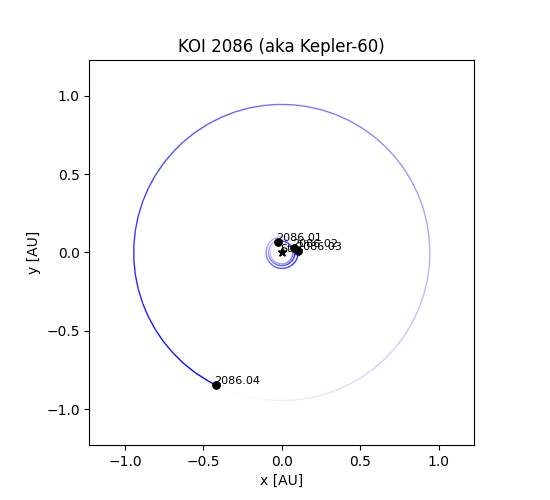
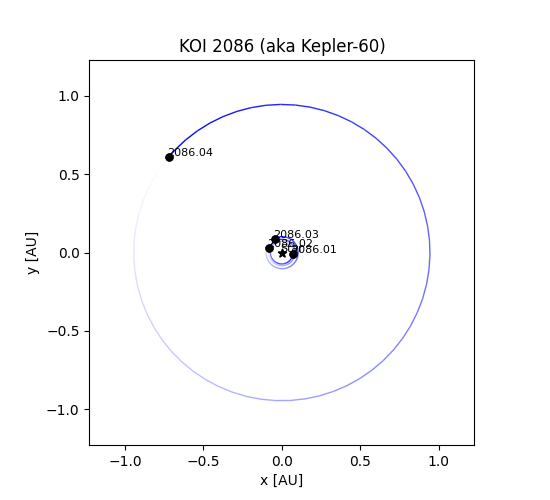
I still don't know what's going on but we'll be alright

diff --git a/Rebound2086.py b/Rebound2086.py
@@ -4,30 +4,36 @@ import matplotlib.pyplot as plt
 
 sim = rebound.Simulation()
 
-sim.units = ('yr','AU','Msun')
+Mearth = 1.0/332940.0
+GMsun = 1.3271244e20 # [m3 s-2]
+au = 149597870700.0 # [m]
+G = GMsun*(86400**2)/au**3 # au, days, Msun
+
+sim.units = ('days','AU','Msun')
+print(sim.G)
 
 #star/COM
 sim.add(m=1)
 #2086.01 // Start with innermost planet, go outwards
-sim.add(m=(1.734**3)/332946,P=7.13295045/365.2425,theta=10.300453650942318)
+sim.add(m=(1.734**3)/332946,P=7.13295045,theta=4.268962021689864)
 #2086.02 // Period is in days, convert to years (Divide by 365.2425)
-sim.add(m=(1.943**3)/332946,P=8.91897737/365.2425,theta=7.303898735779818)
+sim.add(m=(1.943**3)/332946,P=8.91897737,theta=1.6340637234308417)
 #2086.03 // mass ≈ R_p ^ 3 in Earth masses if radius of planet > 1.7 earth radii, then divide by 332946 to convert to solar masses
-sim.add(m=(1.756**3)/332946, P=11.89824703/365.2425,theta=12.686669555423437)
+sim.add(m=(1.756**3)/332946, P=11.89824703,theta=6.145702704123614)
 #2086.04
-sim.add(m=(1.836**3)/332946,P=335.5198537/365.2425,theta=-170.78681528312197)
+sim.add(m=(1.836**3)/332946,P=335.5198537,theta=3.1986270262231145)
 
 os = sim.orbits()
 print("n_i (in rad/days) = %6.3f, %6.3f, %6.3f" % (os[0].n,os[1].n,os[2].n))
 print("P_i (in days)     = %6.3f, %6.3f, %6.3f" % (os[0].P,os[1].P,os[2].P))
 
-Tfinal= 100
-Nout = 365*Tfinal # number of printed out timesteps.
+Tfinal= 10*365
+Nout = 10000 # number of printed out timesteps.
 
 phi = zeros(Nout)
 l1,l2,l3 = zeros(Nout), zeros(Nout), zeros(Nout)
 
-p,q = 1, 1
+p,q = 4, 4
 
 times = linspace(0.,Tfinal,Nout)
 for i,time in enumerate(times):
@@ -36,8 +42,8 @@ for i,time in enumerate(times):
     phi[i] = p*l1[i]-(p+q)*l2[i]+q*l3[i]
 sim.move_to_com()
 
+#radian to degree conversion
 phi_degrees = (phi*180/pi) % 360
-
 print(phi_degrees)
 
 op = rebound.OrbitPlot(sim,unitlabel="[AU]", color="blue", figsize=[5.5,5])
@@ -52,11 +58,36 @@ op.fig.savefig("orbit2086.png")
 
 fig = plt.figure(figsize=(9,7))
 ax = plt.subplot(111)
-ax.plot(times,phi_degrees, 'b', marker=".", markersize=.5)
-ax.set_xlabel("t (years) ", fontsize=24)
-ax.set_ylabel("\u03C6 (deg)", fontsize=24)
-ax.legend(fontsize=24)
+ax.plot(times/365.2425,phi_degrees, 'b', marker=".", markersize=.5)
+ax.set_xlabel("t (years)", fontsize=20)
+ax.set_ylabel("$\Phi$ (degrees)", fontsize=20)
+ax.set_title("Resonant Argument of KOI 2086 (aka Kepler-60)",fontsize=20)
+ax.annotate("p = 4, q = 4",xy=(9,360))
+#ax.legend(fontsize=24)
 plt.savefig("phichart2086.png")
+
+fig = plt.figure(figsize=(9,7))
+ax = plt.subplot(111)
+ax.plot(times,l1*180/pi, 'b', marker=".", markersize=.5)
+ax.set_xlabel("t (days) ", fontsize=20)
+ax.set_ylabel("$\lambda_1$ (degrees)", fontsize=20)
+ax.set_title("Mean longitude of KOI 2086.01",fontsize=20)
+plt.axhline(y=(4.268962021689864*180/pi), color='b', linestyle='--')
+ax.plot([0,7.13295045],[4.268962021689864*180/pi,4.268962021689864*180/pi],'bo')
+ax.annotate("(0,244.6$\degree$)",xy=(-0.4,230),color='b')
+ax.annotate("(7.13295045,244.6$\degree$)",xy=(7.1,230),color='b')
+#ax.legend(fontsize=24)
+plt.savefig("lamdbachart2086.png")
+
+fig = plt.figure(figsize=(9,7))
+ax = plt.subplot(111)
+ax.plot(times,(4*l1*180/pi-4*l2*180/pi) % 360, 'b', marker=".", markersize=.5)
+ax.set_xlabel("t (days) ", fontsize=20)
+ax.set_ylabel("$p*\lambda_1 - q*\lambda_2$ (degrees)", fontsize=20)
+#ax.legend(fontsize=24)
+ax.set_title("Mean longitude of KOI 2086.01 - KOI 2086.02",fontsize=20)
+ax.annotate("p = 4, q = 4",xy=(27.25,365))
+plt.savefig("lamdbaequationchart2086.png")
 
 for p in sim.particles:
     print("x/y values of each particle:", p.x, p.y)

diff --git a/Rebound1151.py b/Rebound1151.py
@@ -60,11 +60,19 @@ op.fig.savefig("orbit1151.png")
 
 fig = plt.figure(figsize=(9,7))
 ax = plt.subplot(111)
-ax.plot(times,phi_degrees, 'b', marker=".", markersize=.5)
+ax.plot(times/365.2425,phi_degrees, 'b', marker=".", markersize=.5)
 ax.set_xlabel("t (years) ", fontsize=24)
-ax.set_ylabel("l1 (?)", fontsize=24)
+ax.set_ylabel("$\Phi$ (degrees)", fontsize=24)
 ax.legend(fontsize=24)
 plt.savefig("phichart1151.png")
+
+fig = plt.figure(figsize=(9,7))
+ax = plt.subplot(111)
+ax.plot(times/365.2425,l1, 'b', marker=".", markersize=.5)
+ax.set_xlabel("t (years) ", fontsize=24)
+ax.set_ylabel("$\lambda_1$ (AU)", fontsize=24)
+ax.legend(fontsize=24)
+plt.savefig("lamdbachart1151.png")
 
 for p in sim.particles:
     print("x/y values of each particle:", p.x, p.y)

diff --git a/intialangle.py b/intialangle.py
@@ -1,8 +1,8 @@
 import math
 
-period = 7.41088006
-T0 = 787.606156
+period = 7.13295045
+T0 = 789.419586
 
-theta0 = -(2*math.pi / period) * (T0 - 780) + (2 * math.pi)
+theta0 = -(2*math.pi / period) * (T0 - 780) + 2*(2 * math.pi)
 print(theta0)
 
